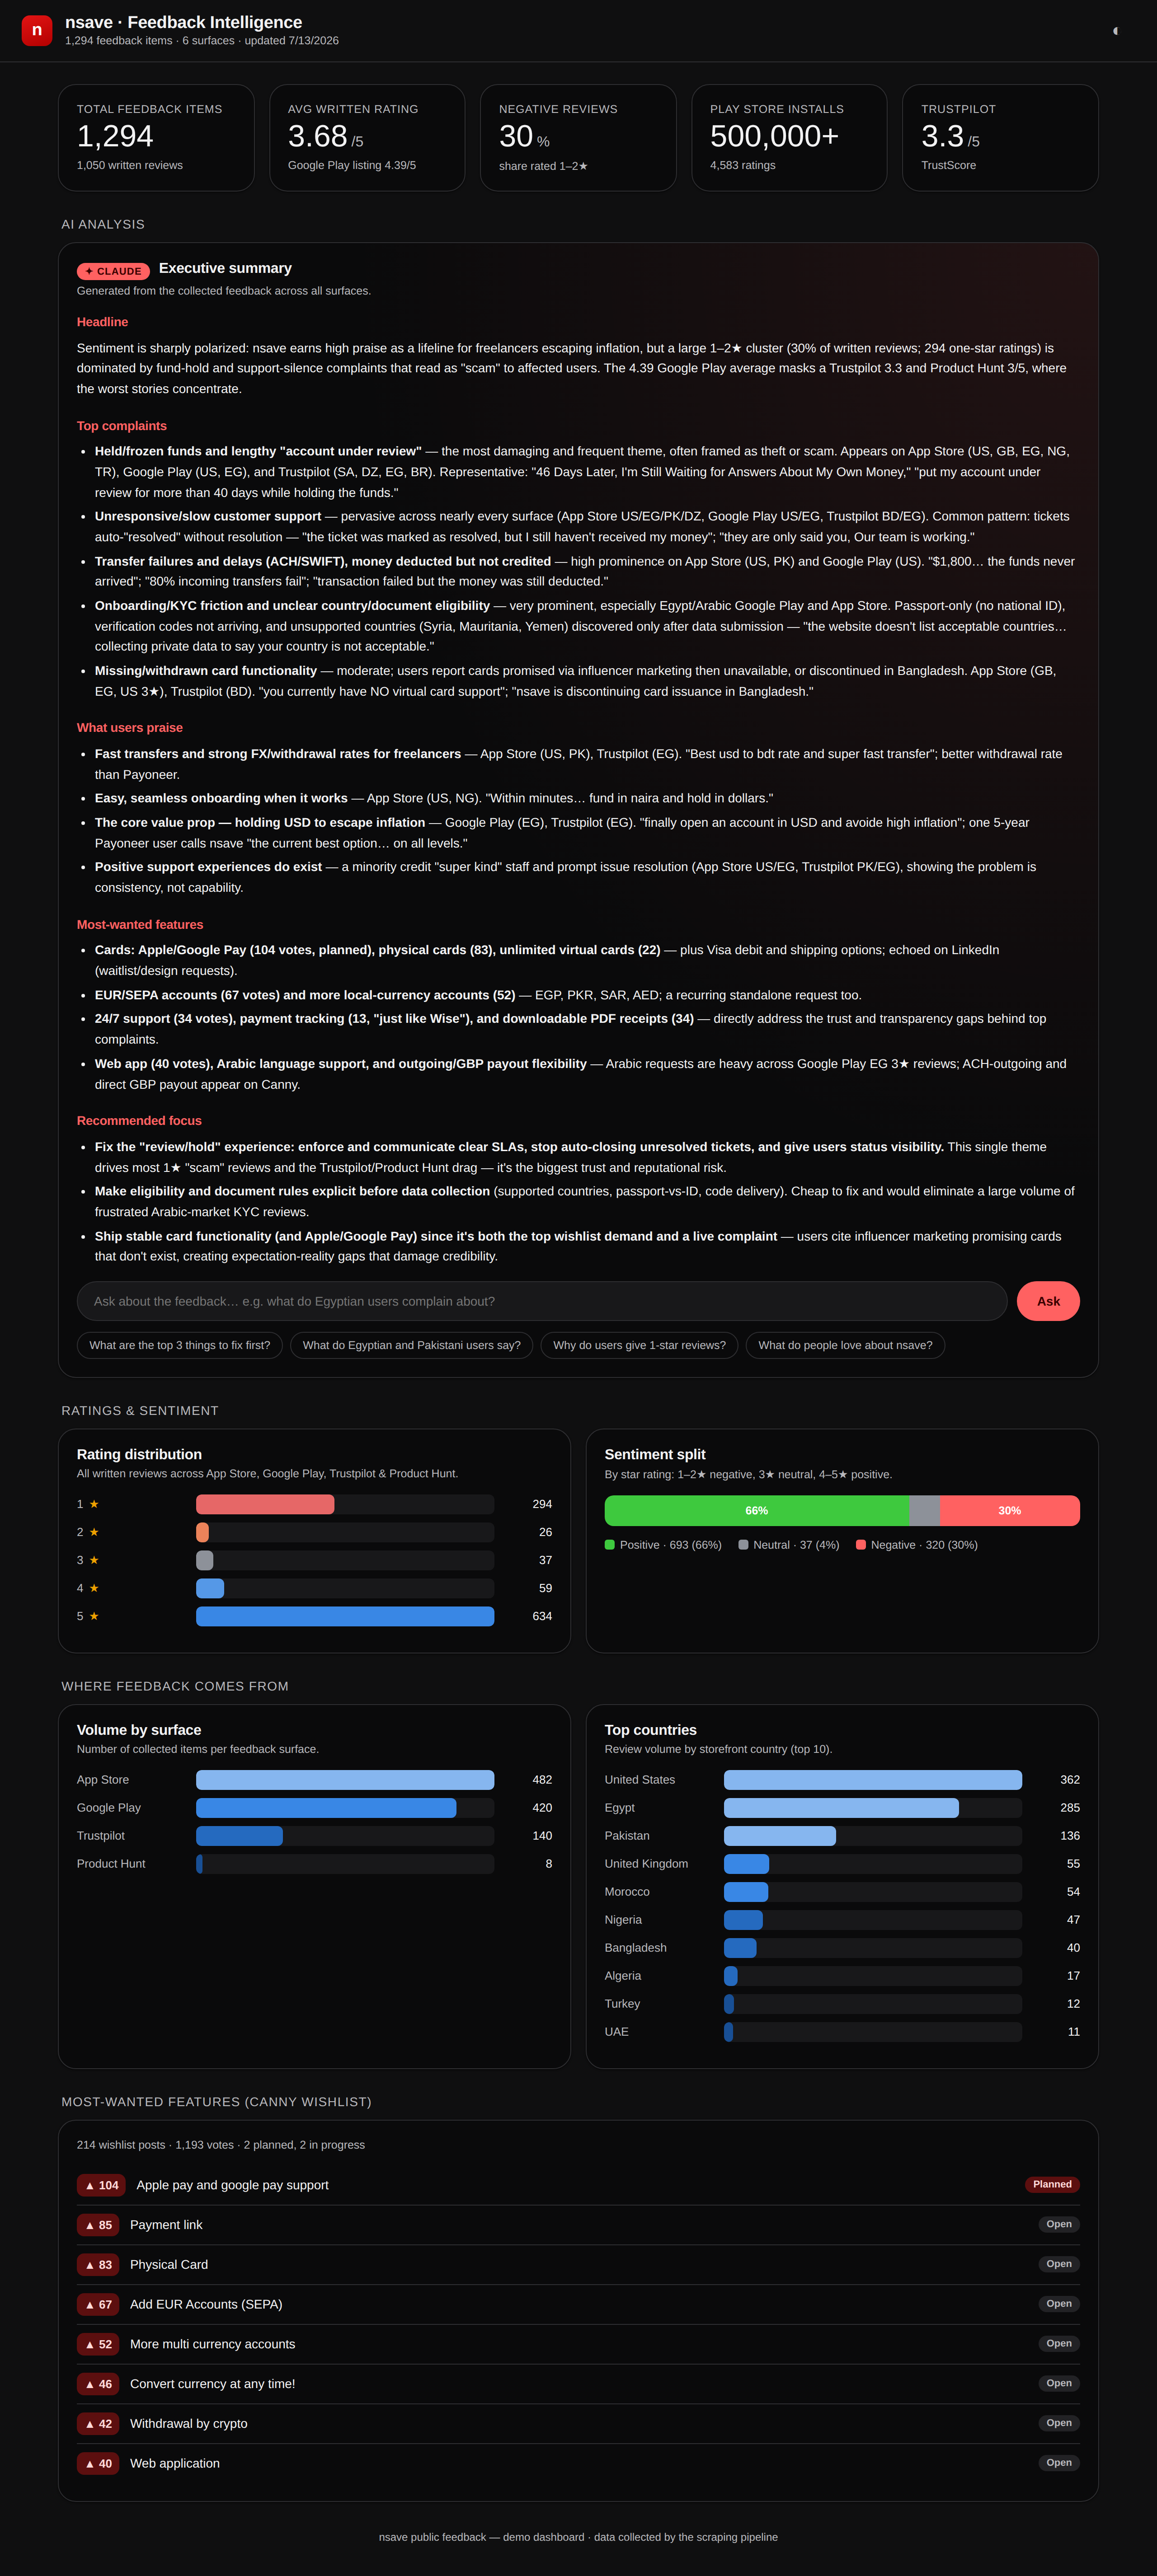
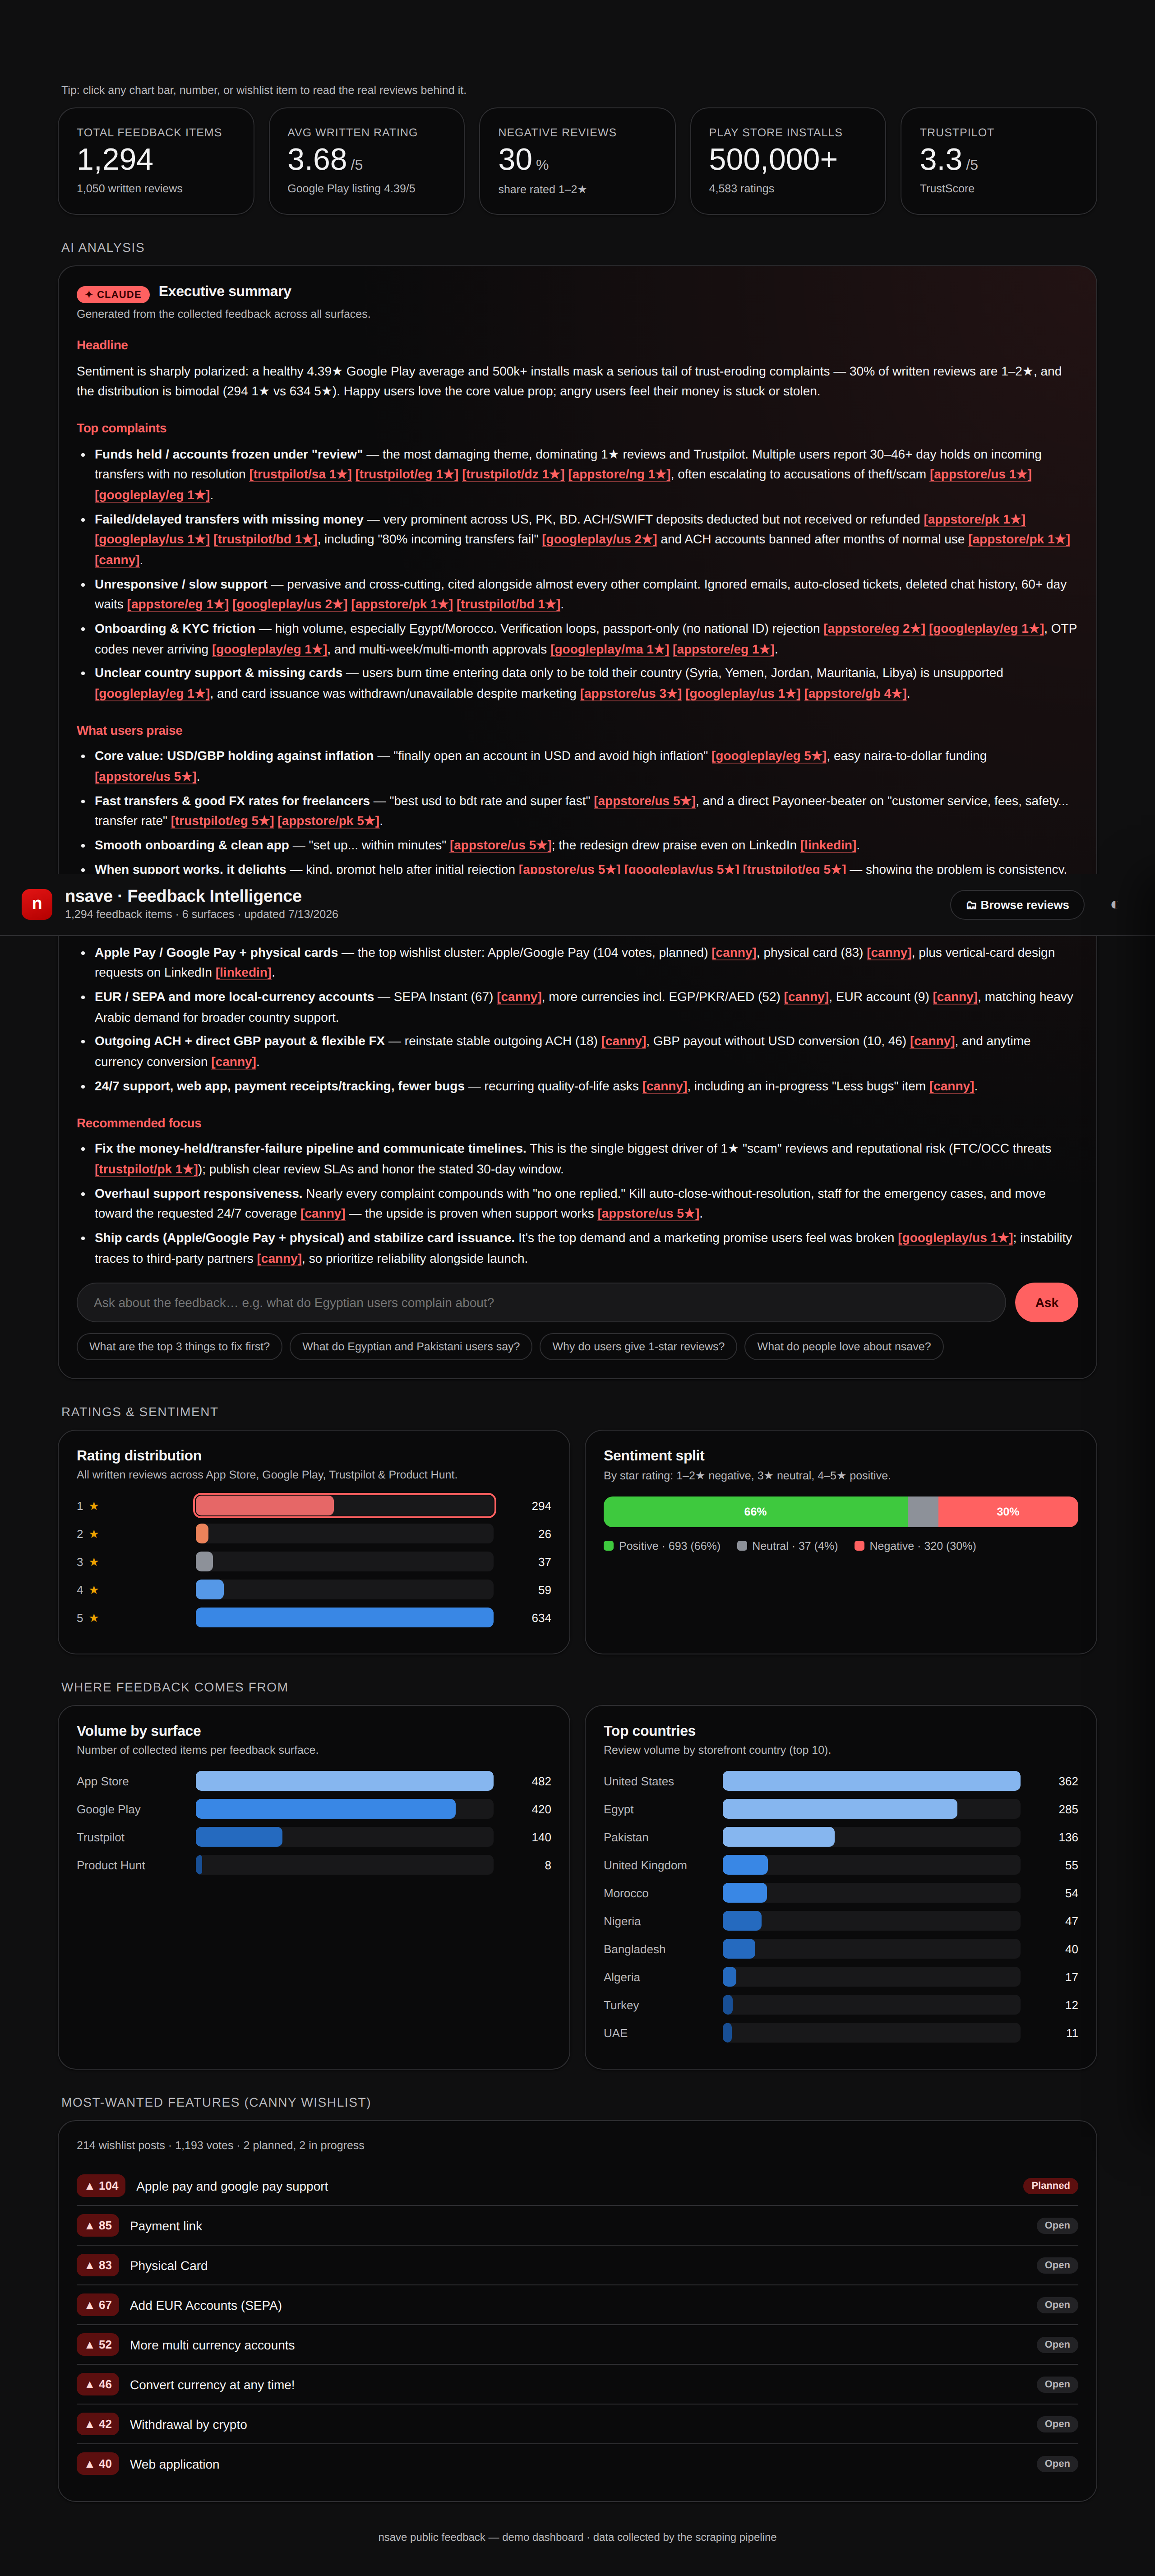
Refresh README screenshots against the live app, with explanations
- Recapture all dashboard screenshots from the deployed Vercel app so they
  show real Claude output. Add two new annotated views:
  - ai-analysis.png: the executive summary with clickable citation chips
  - reviews-canny.png: the reviews drawer filtered to the Canny wishlist
- Add explanatory captions to each screenshot in the README (AI evidence,
  one-star drilldown, wishlist filter, dark theme).

Claude-Session: https://claude.ai/code/session_01UDKWWhzJEuQG4iQ8KHsJzV

diff --git a/README.md b/README.md
@@ -62,6 +62,16 @@ It's the internal-leverage layer for that problem:
    answers plain-English questions (*"What do Egyptian users complain about?"*)
    grounded strictly in the real reviews, citing which surfaces back each point.
 
+### AI analysis, with evidence you can click
+
+The executive summary leads with the headline, then breaks down top complaints,
+praise, most-wanted features, and recommended focus. Every claim carries inline
+**citation chips** — `[trustpilot/eg 1★]`, `[canny]`, `[linkedin]` — and each one is
+clickable: it opens the reviews drawer filtered to exactly those reviews. So the AI
+is never a black box; its evidence is always one tap away.
+
+![AI executive summary with clickable citations](docs/screenshots/ai-analysis.png)
+
 ## How it helps nsave
 
 - **Early warning on trust-breakers.** The tool surfaces "frozen funds / account
@@ -212,7 +222,17 @@ clicking it opens the drawer on exactly those reviews, so every AI claim is one 
 from its evidence. Served by `GET /api/reviews` (filter / search / paginate over the
 committed dataset; `src/dashboard/reviews.js`).
 
-![Reviews explorer drawer](docs/screenshots/reviews-drawer.png)
+*Clicking the "1★" bar opens the 294 one-star reviews, newest first — real text,
+source badge, country flag, and a "nsave replied" marker where the company responded:*
+
+![Reviews explorer — one-star reviews](docs/screenshots/reviews-drawer.png)
+
+*The same drawer filtered to the Canny wishlist, showing the raw feature requests
+(with vote counts and status) behind the aggregate chart:*
+
+![Reviews explorer — Canny wishlist](docs/screenshots/reviews-canny.png)
+
+*Dark theme (stepped for the dark surface, not an inverted flip):*
 
 ![Dashboard — dark](docs/screenshots/dashboard-dark.png)
 